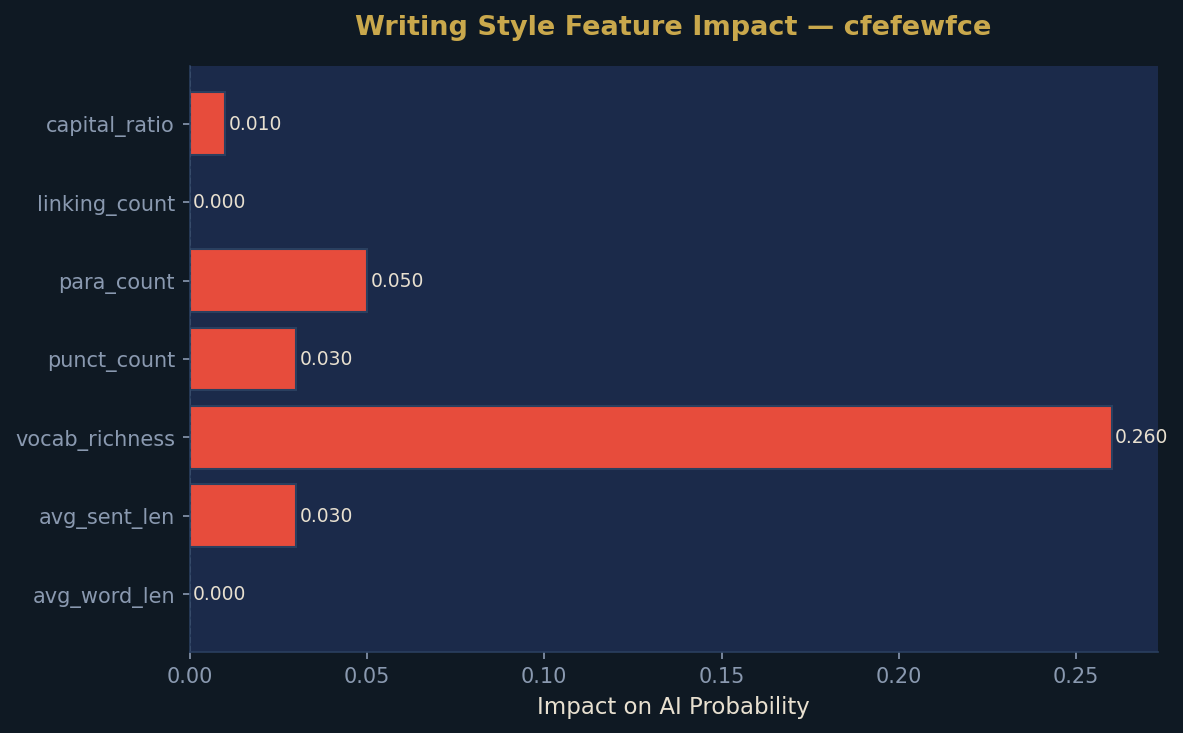
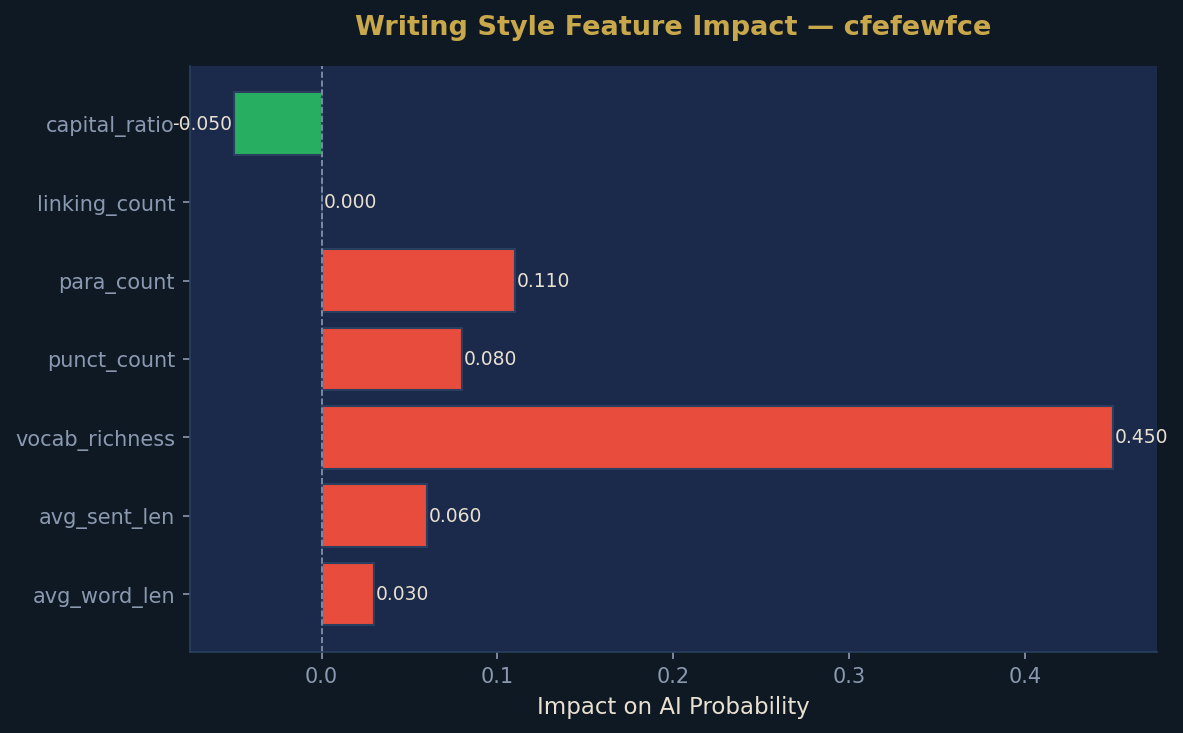
added copy functionality's score in Student history page

diff --git a/app/dashboard.py b/app/dashboard.py
@@ -346,11 +346,11 @@ def analyze_student(sid, name, essay, G1, G2, G3, absences, studytime, failures)
 
     # Moderate plagiarism
     elif copy_score >= 60:
-        composite += 20
+        composite += 30
 
     # Mild plagiarism
     elif copy_score >= 40:
-        composite += 10
+        composite += 15
 
     # Cap score at 100
     composite = min(composite, 100)
@@ -1189,6 +1189,34 @@ elif "📜" in page:
                         """, unsafe_allow_html=True)
 
                     with ic2:
+                        copy_score = record.get("copy_score") or 0
+                        matched_student = record.get("matched_student", "")
+
+                        # Find matched student name
+                        matched_name = "N/A"
+
+                        if matched_student:
+                            try:
+                                all_records = get_all_results()
+
+                                for r in all_records:
+                                    if str(r["student_id"]) == str(matched_student):
+                                        matched_name = r["student_name"]
+                                        break
+
+                            except:
+                                matched_name = matched_student
+                        
+                        # Copy score color
+                        if copy_score >= 80:
+                            copy_color = "#E74C3C"
+
+                        elif copy_score >= 60:
+                            copy_color = "#F39C12"
+
+                        else:
+                            copy_color = "#27AE60"
+
                         st.markdown(f"""
                         <div style='background:#1B2A4A; border:1px solid #2A3F5F;
                                     border-radius:8px; padding:0.8rem; font-size:0.85rem;'>
@@ -1197,7 +1225,9 @@ elif "📜" in page:
                         Writing Style: <b style='color:#E8E0D0;'>
                         {record.get("module2_label","N/A")}</b><br>
                         Absences: <b style='color:#E8E0D0;'>{record['absences']}</b><br>
-                        Failures: <b style='color:#E8E0D0;'>{record['failures']}</b>
+                        Failures: <b style='color:#E8E0D0;'>{record['failures']}</b><br>
+                        Possible Copy: <b style='color:{copy_color};'>{copy_score}%</b>&nbsp &nbsp &nbsp
+                        Matched Student: <b style='color:#E8E0D0;'>{matched_name}</b>
                         </span>
                         </div>
                         """, unsafe_allow_html=True)
